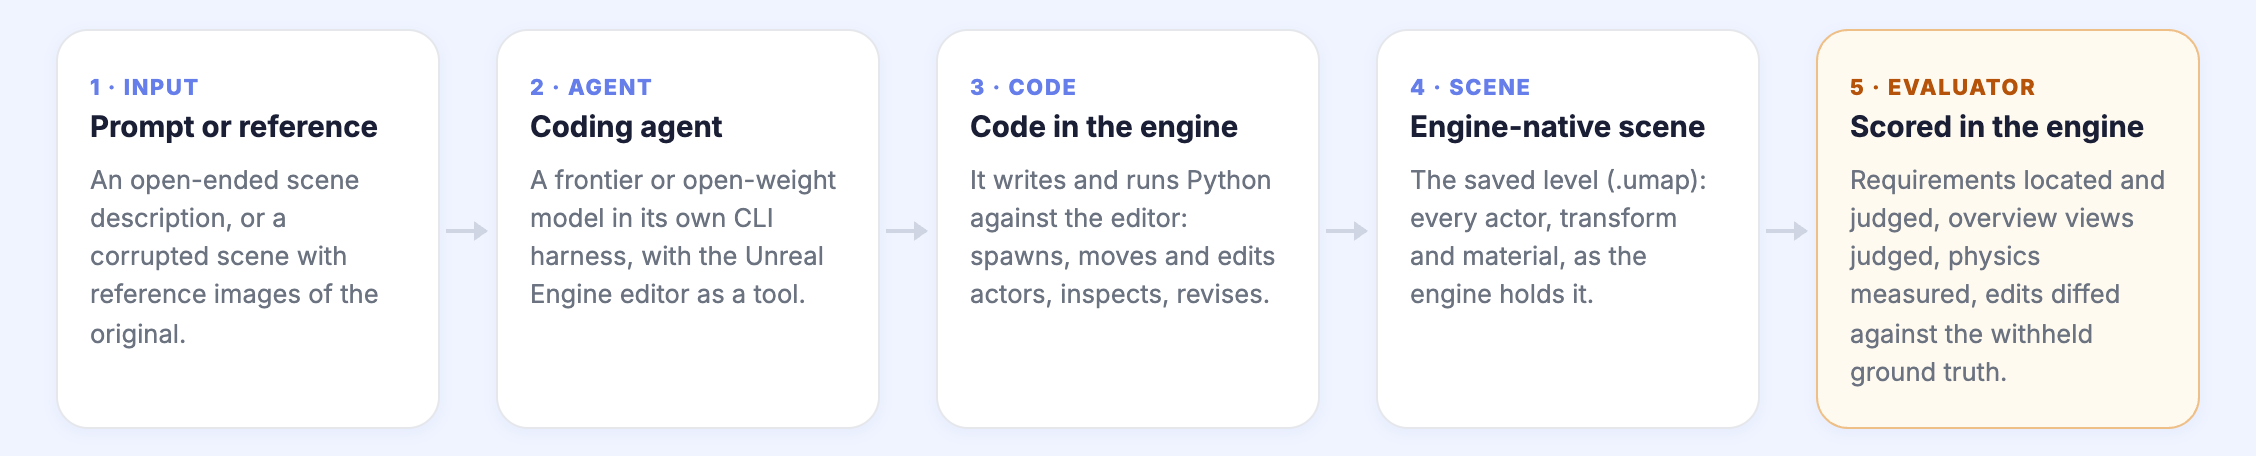
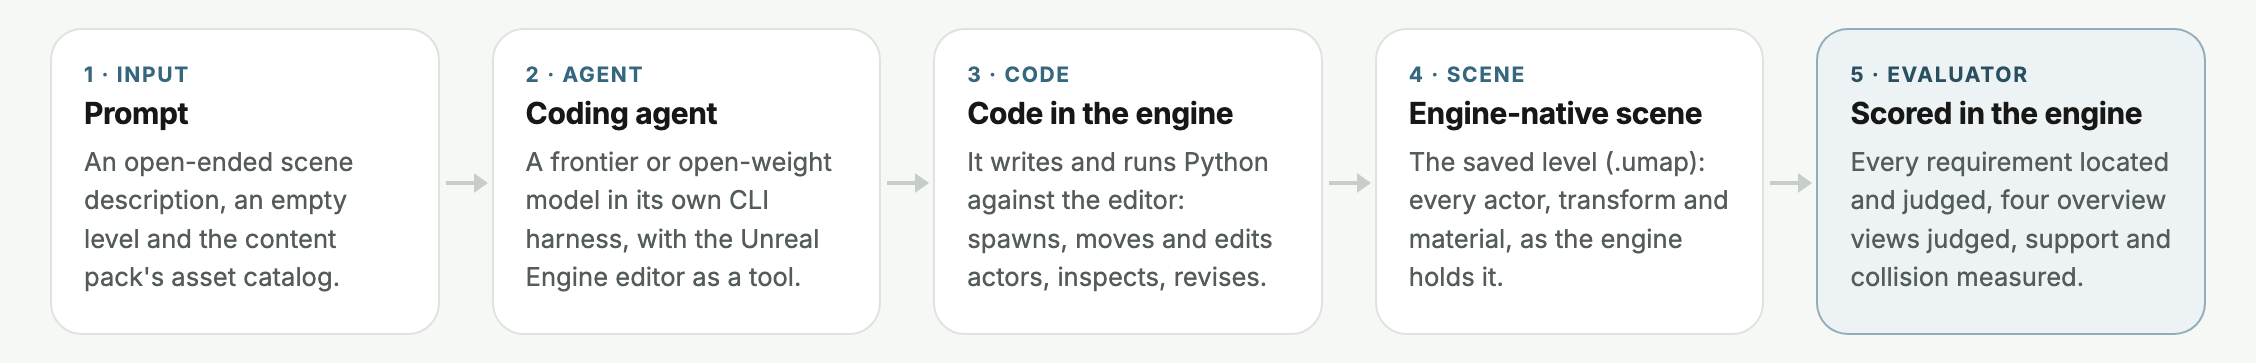
README: Text-to-Scene only (#12)
Drop the Image-to-Scene setting from the README: the tagline, overview,
settings table, model score, leaderboard columns and findings now cover
Text-to-Scene construction alone, matching the project page.

- Leaderboard: the 14 configurations ranked by Text-to-Scene score, with
  cost per case; the overall-score chart is replaced by the Text-to-Scene
  bar and Pareto figure.
- Key finding: Spatial Composition, with its figure.
- Pipeline diagram redrawn without the corrupted-scene input and the edit
  diff, in the project page's palette.
- Quick Start builds and scores the Text-to-Scene cases only
  (--settings t2s; --t2s-cases for the aggregate).

The BibTeX keeps the paper's published title.

diff --git a/README.md b/README.md
@@ -1,7 +1,7 @@
 <h1 align="center">Code4Scene</h1>
 
 <p align="center">
-  <strong>Benchmarking Coding Agents for Constructing and Editing 3D Scenes</strong>
+  <strong>Benchmarking Coding Agents for Constructing 3D Scenes</strong>
 </p>
 
 <p align="center">
@@ -25,8 +25,8 @@
 </p>
 
 <p align="center">
-  160 text-to-scene tasks and 160 image-to-scene tasks in Unreal Engine. Coding agents write and run code that builds a scene
-  from text, or repairs one from reference images, and Code4Scene scores the engine-native scene they save.
+  160 text-to-scene tasks in Unreal Engine. Coding agents write and run code that builds a scene from an open-ended
+  description, and Code4Scene scores the engine-native scene they save.
 </p>
 
 <p align="center">
@@ -42,96 +42,84 @@
 ## Overview
 
 Coding agents can now operate 3D engines: they write and run code, inspect the result and revise the scene. Code4Scene evaluates them in
-Unreal Engine on two complementary settings under one shared execution interface. It does not score the code or a rendered image. It
-scores the **engine-native scene** (`.umap`) the agent saves, on task fulfilment, artifact integrity and static physical validity, and it
-compares edits against withheld ground truth.
+Unreal Engine on Text-to-Scene construction: from an empty level, an open-ended scene description and a content pack's asset catalog,
+the agent builds the scene the prompt describes. Code4Scene does not score the code or a rendered image. It scores the
+**engine-native scene** (`.umap`) the agent saves, on task fulfilment, artifact integrity and static physical validity.
 
 <p align="center">
-  <img src="docs/assets/pipeline.png" alt="Input, coding agent, code in the engine, engine-native scene, evaluator" width="100%" />
+  <img src="docs/assets/pipeline.png" alt="Prompt, coding agent, code in the engine, engine-native scene, evaluator" width="100%" />
 </p>
 
-| Setting | The agent gets | The agent must | Case score | Benchmark tasks |
-|:--|:--|:--|:--|:-:|
-| **Text-to-Scene** · construction | An empty level, an open-ended scene description and the pack's asset catalog | Build the scene the prompt describes. Many realizations are valid. | 0.2 · Detailed Alignment + 0.6 · Overview Alignment + 0.2 · Physical Safety | 160 |
-| **Image-to-Scene** · editing | A corrupted copy of a human-assembled scene and reference views of the original | Restore every target actor (within 5 cm · 5° · 5%) and change nothing else | 0.8 · Repair F1 + 0.2 · Physical Safety | 160 |
+| The agent gets | The agent must | Case score | Benchmark tasks |
+|:--|:--|:--|:-:|
+| An empty level, an open-ended scene description and the pack's asset catalog | Build the scene the prompt describes. Many realizations are valid. | 0.2 · Detailed Alignment + 0.6 · Overview Alignment + 0.2 · Physical Safety | 160 |
 
-The model score is `0.5 · S_T2S + 0.5 · S_I2S`. [docs/SCORING.md](docs/SCORING.md) gives every verifier, formula and zero rule.
+A model's score is the mean of its case scores. [docs/SCORING.md](docs/SCORING.md) gives every verifier, formula and zero rule.
 
 ---
 
 ## Leaderboard
 
-The paper evaluated 190 cases (30 Text-to-Scene + 160 Image-to-Scene). The results below are from that evaluation.
+14 coding-agent configurations on the paper's original 20 public Text-to-Scene cases (Table 2). 🔓 marks open weights. The
+[interactive leaderboard](https://simworld-ai-code4scene.static.hf.space/#leaderboard) adds the sub-scores and a score-against-cost
+chart; the [cases page](https://simworld-ai-code4scene.static.hf.space/cases.html) shows each agent's saved scene in 3D next to the
+evaluator's scores.
 
-14 coding-agent configurations on the paper's original 95-case public subset (Table 2). 🔓 marks open weights. The
-[interactive leaderboard](https://simworld-ai-code4scene.static.hf.space/#leaderboard) adds the sub-scores, cost per case and a
-score-against-cost chart; the [cases page](https://simworld-ai-code4scene.static.hf.space/cases.html) shows each agent's saved scene in 3D
-next to the evaluator's scores.
-
-| # | Agent configuration | Provider | Overall | Text-to-Scene | Image-to-Scene |
-|:-:|:--|:--|:-:|:-:|:-:|
-| 1 | GPT-6 Astra (max) | OpenAI | **0.619** | 0.724 | 0.515 |
-| 1 | Gemini 3.8 Flash (high) | Google | **0.619** | 0.657 | **0.581** |
-| 3 | Claude Fable 5.1 (max) | Anthropic | 0.606 | **0.788** | 0.424 |
-| 4 | Claude Opus 5 (max) | Anthropic | 0.593 | 0.718 | 0.468 |
-| 5 | GPT-5.6 Sol (high) | OpenAI | 0.550 | 0.707 | 0.393 |
-| 6 | Muse Spark 1.3 (medium) | Meta | 0.502 | 0.646 | 0.358 |
-| 7 | GLM-5.3 Flash (max) 🔓 | Z.ai | 0.415 | 0.509 | 0.320 |
-| 8 | Qwen 3.8 27B (thinking off) 🔓 | Alibaba | 0.378 | 0.557 | 0.200 |
-| 9 | Grok 4.6 (high) | xAI | 0.376 | 0.567 | 0.184 |
-| 10 | Qwen 3.8 27B (thinking on) 🔓 | Alibaba | 0.371 | 0.516 | 0.226 |
-| 11 | Inkling (high) | Thinking Machines | 0.312 | 0.425 | 0.198 |
-| 12 | Gemma 4 31B (thinking on) 🔓 | Google | 0.298 | 0.471 | 0.126 |
-| 13 | Gemma 4 31B (thinking off) 🔓 | Google | 0.285 | 0.455 | 0.115 |
-| 14 | DeepSeek V4.1 Flash (high) 🔓 | DeepSeek | 0.227 | 0.243 | 0.210 |
+| # | Agent configuration | Provider | Score | Cost / case |
+|:-:|:--|:--|:-:|--:|
+| 1 | Claude Fable 5.1 (max) | Anthropic | **0.788** | $18.16 |
+| 2 | GPT-6 Astra (max) | OpenAI | 0.724 | $22.47 |
+| 3 | Claude Opus 5 (max) | Anthropic | 0.718 | $34.50 |
+| 4 | GPT-5.6 Sol (high) | OpenAI | 0.707 | $4.07 |
+| 5 | Gemini 3.8 Flash (high) | Google | 0.657 | $2.49 |
+| 6 | Muse Spark 1.3 (medium) | Meta | 0.646 | $0.10 |
+| 7 | Grok 4.6 (high) | xAI | 0.567 | $4.33 |
+| 8 | Qwen 3.8 27B (thinking off) 🔓 | Alibaba | 0.557 | $0.49 |
+| 9 | Qwen 3.8 27B (thinking on) 🔓 | Alibaba | 0.516 | $0.33 |
+| 10 | GLM-5.3 Flash (max) 🔓 | Z.ai | 0.509 | $0.71 |
+| 11 | Gemma 4 31B (thinking on) 🔓 | Google | 0.471 | $0.03 |
+| 12 | Gemma 4 31B (thinking off) 🔓 | Google | 0.455 | $0.02 |
+| 13 | Inkling (high) | Thinking Machines | 0.425 | $0.20 |
+| 14 | DeepSeek V4.1 Flash (high) 🔓 | DeepSeek | 0.243 | $0.19 |
 
 <p align="center">
-  <img src="docs/assets/score_vs_cost.png" alt="Overall score against estimated cost per case, with the Pareto frontier" width="88%" />
+  <img src="docs/assets/leaderboard_t2s.png" alt="Text-to-Scene score per agent, and score against estimated cost per case with the Pareto frontier" width="88%" />
   <br />
-  <sub>Overall score against estimated cost per case. The line is the frontier: no agent left of it scores higher. Cost is estimated from
-  token usage at list prices and is provisional.</sub>
+  <sub>Top: the score of each configuration, ×100. Bottom: score against estimated cost per case; the line is the frontier, where nothing
+  cheaper scores higher. Cost is the mean estimated USD per case, from token usage at list prices, and is provisional.</sub>
 </p>
 
 ---
 
-## Key Findings
+## Key Finding
 
-- 🧭 **Construction and editing probe different capabilities**: scene-level spatial reasoning and precise control of scene state. Despite
-  nearly identical overall scores, Astra is stronger at construction and Gemini at editing.
-- 🧩 **Spatial Composition remains the weakest requirement family for all 14 agents.** Errors persist even when the required objects are
-  present: generating the right objects does not ensure that their relationships satisfy the specification.
-- 🔧 **Editing ability varies substantially across repair types.** Astra performs best on Transform repairs, while Gemini is stronger on
-  Lifecycle and Layout operations.
-- 🎯 **Recovering the target does not guarantee precise editing.** Across all 14 configurations, 35.8% of complete recoveries still contain
-  unintended changes to the surrounding scene.
+🧩 **Spatial Composition remains the weakest requirement family for all 14 agents.** Errors persist even when the required objects are
+present: generating the right objects does not ensure that their relationships satisfy the specification.
+
+<p align="center">
+  <img src="docs/assets/takeaway_spatial_composition.png" alt="Requirement-family scores per agent, a judged example and the mismatch rate when the required objects are present" width="88%" />
+</p>
 
 ---
 
 ## What's in this repository
 
-This repository currently includes **150 Text-to-Scene and 75 Image-to-Scene task definitions**; more tasks are in preparation.
+This repository currently includes **150 Text-to-Scene task definitions**; more tasks are in preparation.
 
 | | |
 |---|---|
 | `code4scene/` | The verifiers and the paper's scoring protocol, as a Python package with a `code4scene` CLI. |
-| `benchmark/public/` | Task definitions: prompts, requirement bundles, edit recipes, reference-view cameras and content fingerprints. |
+| `benchmark/public/text-to-scene/` | Task definitions: prompts, packs, budgets, verifiers and frozen requirement bundles. |
 | `benchmark/packs.yaml`, `docs/PACKS.md` | Where to get each Unreal Engine content pack the public set uses (Fab links). |
-| `dataset_builder/`, `docs/BUILD_DATASET.md` | A builder that recreates the public dataset from those packs on a stock Unreal Engine 5.8 editor, then verifies it against the fingerprints. |
+| `dataset_builder/`, `docs/BUILD_DATASET.md` | A builder that prepares the public dataset from those packs on a stock Unreal Engine 5.8 editor. |
 
 The paper's private set is not included.
 
 ### No third-party content is distributed
 
 The scenes are built from third-party content packs sold or given away on [Fab](https://www.fab.com). This repository ships none of them.
-It contains no levels, meshes, textures or rendered images, and no transform-level description of any seller's scene. You obtain each pack
-from its original listing under its own license, then run the builder. The builder recreates:
-
-- the ground-truth levels from the packs' own demo maps;
-- the corrupted input levels, from small edit recipes;
-- the reference views.
-
-A content fingerprint confirms that your build matches the levels the benchmark was scored on, and tells you which actors differ if it does
-not.
+It contains no levels, meshes, textures or rendered images. You obtain each pack from its original listing under its own license, then
+run the builder: it checks that every asset a prompt's palette names is installed, creates the empty start level and packages the cases.
 
 ---
 
@@ -147,27 +135,24 @@ code4scene --help
 ### 2. Build the public dataset
 
 1. Create an empty UE 5.8 project.
-2. Install the packs listed in [docs/PACKS.md](docs/PACKS.md).
+2. Install the text-to-scene packs listed in [docs/PACKS.md](docs/PACKS.md).
 3. Run the builder from the repository root:
 
 ```bash
 export UE_EDITOR=/path/to/UE_5.8/Engine/Binaries/Linux/UnrealEditor-Cmd   # or pass --editor
 python -m dataset_builder.build --project /path/Code4SceneData/Code4SceneData.uproject --steps init-project
 python -m dataset_builder.build --project /path/Code4SceneData/Code4SceneData.uproject \
-    --dataset ./code4scene-dataset --steps check blank gt inputs verify package --allow-missing-packs
-python -m dataset_builder.build --project ... --dataset ./code4scene-dataset --steps render --allow-missing-packs   # reference views, needs a GPU
+    --dataset ./code4scene-dataset --settings t2s --steps check blank package
 ```
 
-`init-project` enables the two editor scripting plugins the builder needs. `--allow-missing-packs` builds the cases
-whose packs are installed and skips the others; without it the builder stops if any pack is missing. The
-`TrainStation` pack has no Fab listing yet, so its 5 outdoor cases are always skipped (see
-[docs/PACKS.md](docs/PACKS.md)).
+`init-project` enables the two editor scripting plugins the builder needs. `check` lists any asset a prompt names that is not installed,
+with its Fab listing, in `code4scene-dataset/reports/packs.json`; `blank` creates the empty start level; `package` writes the dataset.
 
 [docs/BUILD_DATASET.md](docs/BUILD_DATASET.md) covers disk and time estimates, the verification report, and scene-specific notes.
 
-> **Keep the answers away from agents.** An agent under test may only see `code4scene-dataset/agent/` (task prompts,
-> case facts and reference views). Never give it this repository's `benchmark/` directory, `code4scene-dataset/scorer/`,
-> `snapshots/` or the `Code4SceneGT` content, including through a shell or file tool: they contain the answers.
+> **Keep the answers away from agents.** An agent under test may only see `code4scene-dataset/agent/` (task prompts
+> and case facts). Never give it this repository's `benchmark/` directory or `code4scene-dataset/scorer/`, including
+> through a shell or file tool: they contain the requirement bundles the scene is scored against.
 
 ### 3. Score a scene
 
@@ -175,12 +160,13 @@ The verifiers read an **evidence bundle**: scene snapshots, physics measurements
 scripts in `code4scene/ue_scripts/`. See [docs/EVIDENCE_BUNDLE.md](docs/EVIDENCE_BUNDLE.md).
 
 ```bash
-code4scene score path/to/bundle --task benchmark/public/<setting>/<case>/task.yaml   # full scoring (needs the VLM judge)
-code4scene score path/to/bundle --task .../task.yaml --no-vlm                      # structured leaves only
-code4scene aggregate scores/ --schedule benchmark --format csv -o model-scores.csv  # case scores → model score
+code4scene score path/to/bundle --task benchmark/public/text-to-scene/<case>/task.yaml   # full scoring (needs the VLM judge)
+code4scene score path/to/bundle --task .../task.yaml --no-vlm                            # structured leaves only
+code4scene aggregate scores/ --t2s-cases benchmark/public-t2s-cases.txt \
+    --format csv -o model-scores.csv                                                     # case scores → t2s_score
 ```
 
-Text-to-Scene semantic and overview judgments use a VLM judge. The paper used **Qwen3.8-27B**; point the CLI at your own
+The detailed and overview judgments use a VLM judge. The paper used **Qwen3.8-27B**; point the CLI at your own
 OpenAI-compatible deployment with `CODE4SCENE_VLM_BASE_URL` and `CODE4SCENE_VLM_MODEL`.
 
 Scores are comparable to the paper's only when agents run under the same interface, asset catalog and budget.
